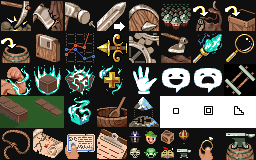
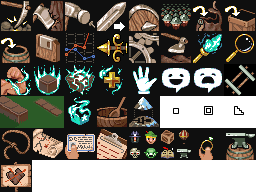
bug fixes

diff --git a/DwarfCorp/Components/AI/Sensors/EnemySensor.cs b/DwarfCorp/Components/AI/Sensors/EnemySensor.cs
@@ -49,66 +49,74 @@ namespace DwarfCorp
 
         public void Sense()
         {
-            if (Name == "turret-sensor")
+            try
             {
-                var x = 5;
-            }
 
-            if (!Active) return;
-
-            if (Creature != null)
-                Allies = Creature.Faction;
-
-            // Don't sense enemies if we're inside the ground??
-            var currentVoxel = new VoxelHandle(World.ChunkManager, GlobalVoxelCoordinate.FromVector3(Position));
-            if (!(currentVoxel.IsValid && currentVoxel.IsEmpty))
-                return;
-
-            var sensed = new List<CreatureAI>();
-
-            var myRoot = GetRoot();
-
-            foreach (var body in Manager.World.EnumerateIntersectingRootObjects(BoundingBox, b => !Object.ReferenceEquals(b, myRoot)))
-            {
-                if (body.GetComponent<Flammable>().HasValue(out var flames) && flames.IsOnFire)
+                if (Name == "turret-sensor")
                 {
-                    if (GetRoot().GetComponent<CreatureAI>().HasValue(out var myAI))
+                    var x = 5;
+                }
+
+                if (!Active) return;
+
+                if (Creature != null)
+                    Allies = Creature.Faction;
+
+                // Don't sense enemies if we're inside the ground??
+                var currentVoxel = new VoxelHandle(World.ChunkManager, GlobalVoxelCoordinate.FromVector3(Position));
+                if (!(currentVoxel.IsValid && currentVoxel.IsEmpty))
+                    return;
+
+                var sensed = new List<CreatureAI>();
+
+                var myRoot = GetRoot();
+
+                foreach (var body in Manager.World.EnumerateIntersectingRootObjects(BoundingBox, b => !Object.ReferenceEquals(b, myRoot)))
+                {
+                    if (body.GetComponent<Flammable>().HasValue(out var flames) && flames.IsOnFire)
                     {
-                        var task = new FleeEntityTask(body, 5)
+                        if (GetRoot().GetComponent<CreatureAI>().HasValue(out var myAI))
                         {
-                            Priority = TaskPriority.Urgent,
-                            AutoRetry = false,
-                            ReassignOnDeath = false
-                        };
+                            var task = new FleeEntityTask(body, 5)
+                            {
+                                Priority = TaskPriority.Urgent,
+                                AutoRetry = false,
+                                ReassignOnDeath = false
+                            };
 
-                        if (!myAI.HasTaskWithName(task))
-                            myAI.AssignTask(task);
+                            if (!myAI.HasTaskWithName(task))
+                                myAI.AssignTask(task);
 
-                        continue;
+                            continue;
+                        }
+                    }
+
+                    if (body.GetComponent<CreatureAI>().HasValue(out var minion))
+                    {
+                        if (!minion.Active)
+                            continue;
+
+                        if (!DetectCloaked && minion.Creature.IsCloaked)
+                            continue;
+
+                        else if (DetectCloaked && minion.Creature.IsCloaked)
+                            minion.Creature.IsCloaked = false;
+
+                        if (World.Overworld.GetPolitics(Allies.ParentFaction, minion.Faction.ParentFaction).GetCurrentRelationship() != Relationship.Hateful)
+                            continue;
+
+                        if (!VoxelHelpers.DoesRayHitSolidVoxel(Manager.World.ChunkManager, Position, minion.Position))
+                            sensed.Add(minion);
                     }
                 }
 
-                if (body.GetComponent<CreatureAI>().HasValue(out var minion))
-                {
-                    if (!minion.Active)
-                        continue;
-
-                    if (!DetectCloaked && minion.Creature.IsCloaked)
-                        continue;
-
-                    else if (DetectCloaked && minion.Creature.IsCloaked)
-                        minion.Creature.IsCloaked = false;
-
-                    if (World.Overworld.GetPolitics(Allies.ParentFaction, minion.Faction.ParentFaction).GetCurrentRelationship() != Relationship.Hateful)
-                        continue;
-
-                    if (!VoxelHelpers.DoesRayHitSolidVoxel(Manager.World.ChunkManager, Position, minion.Position))
-                        sensed.Add(minion);
-                }
+                if (sensed != null && sensed.Count > 0 && OnEnemySensed != null)
+                    OnEnemySensed.Invoke(sensed);
             }
-
-            if (sensed != null && sensed.Count > 0 && OnEnemySensed != null)
-                OnEnemySensed.Invoke(sensed);
+            catch (Exception e)
+            {
+                // Fuck it
+            }
         }
 
         override public void Update(DwarfTime gameTime, ChunkManager chunks, Camera camera)

diff --git a/DwarfCorp/Sound/SoundManager.cs b/DwarfCorp/Sound/SoundManager.cs
@@ -555,32 +555,39 @@ namespace DwarfCorp
                 Listener.Forward.Normalize();
             }
 
-            foreach(Sound3D instance in ActiveSounds)
+            try
             {
-                if(instance.EffectInstance.IsDisposed || (instance.HasStarted && instance.EffectInstance.State == SoundState.Stopped || instance.EffectInstance.State == SoundState.Paused))
+                foreach (Sound3D instance in ActiveSounds)
                 {
-                    if(!instance.EffectInstance.IsDisposed)
-                        instance.EffectInstance.Dispose();
-                    toRemove.Add(instance);
-                    SoundCounts[instance.Name]--;
-                }
-                else if(!instance.HasStarted)
-                {
-                    if (float.IsNaN(instance.Position.X) || 
-                        float.IsNaN(instance.Position.Y) ||
-                        float.IsNaN(instance.Position.Z))
+                    if (instance.EffectInstance.IsDisposed || (instance.HasStarted && instance.EffectInstance.State == SoundState.Stopped || instance.EffectInstance.State == SoundState.Paused))
                     {
-                        instance.Position = Vector3.Zero;
+                        if (!instance.EffectInstance.IsDisposed)
+                            instance.EffectInstance.Dispose();
+                        toRemove.Add(instance);
+                        SoundCounts[instance.Name]--;
                     }
-                    instance.EffectInstance.Volume *= (GameSettings.Current.MasterVolume * GameSettings.Current.SoundEffectVolume * instance.VolumeMultiplier);
-                    Emitter.Position = instance.Position;
-                    instance.EffectInstance.Apply3D(Listener, Emitter);
-                    instance.EffectInstance.Play();
-                    //instance.EffectInstance.Apply3D(Listener, Emitter);
+                    else if (!instance.HasStarted)
+                    {
+                        if (float.IsNaN(instance.Position.X) ||
+                            float.IsNaN(instance.Position.Y) ||
+                            float.IsNaN(instance.Position.Z))
+                        {
+                            instance.Position = Vector3.Zero;
+                        }
+                        instance.EffectInstance.Volume *= (GameSettings.Current.MasterVolume * GameSettings.Current.SoundEffectVolume * instance.VolumeMultiplier);
+                        Emitter.Position = instance.Position;
+                        instance.EffectInstance.Apply3D(Listener, Emitter);
+                        instance.EffectInstance.Play();
+                        //instance.EffectInstance.Apply3D(Listener, Emitter);
 
-                    //instance.EffectInstance.Volume = Math.Max(Math.Min(400.0f / (camera.Position - instance.Position).LengthSquared(), 0.999f), 0.001f);
-                    instance.HasStarted = true;
+                        //instance.EffectInstance.Volume = Math.Max(Math.Min(400.0f / (camera.Position - instance.Position).LengthSquared(), 0.999f), 0.001f);
+                        instance.HasStarted = true;
+                    }
                 }
+            } 
+            catch (Exception e)
+            {
+                // Collection getting modified somehow? ??? Dunno. Very odd and rare crash.
             }
 
             ActiveSounds2D.RemoveAll(sound => sound.IsDisposed || sound.State == SoundState.Stopped);

diff --git a/DwarfCorp/Components/AI/CreatureAI.cs b/DwarfCorp/Components/AI/CreatureAI.cs
@@ -96,22 +96,22 @@ namespace DwarfCorp
         [JsonIgnore] // Todo: The problem with these wrappers is that everything works with CreatureAI instead of Creature.
         public Physics Physics
         {
-            get { return Creature.Physics; }
+            get { return Creature == null ? null : Creature.Physics; }
         }
 
         /// <summary> Wrapper around Creature.Faction </summary>
         [JsonIgnore]
         public Faction Faction
         {
-            get { return Creature.Faction; }
-            set { Creature.Faction = value; }
+            get { return Creature == null ? null : Creature.Faction; }
+            set { if (Creature != null) Creature.Faction = value; }
         }
 
         /// <summary> Wrapper around Creature.Stats </summary>
         [JsonIgnore]
         public CreatureStats Stats
         {
-            get { return Creature.Stats; }
+            get { return Creature == null ? null : Creature.Stats; }
         }
 
         /// <summary> Wrapper around Creature.Physics.GlobalTransform.Translation </summary>
@@ -589,7 +589,13 @@ namespace DwarfCorp
 
         public override string GetDescription()
         {
-            string desc = Stats.FullName + ", level " + Stats.GetCurrentLevel() +
+            if (Stats == null || Creature == null)
+                return "This bloke got a problem.";
+
+            if (Stats.Happiness == null || Stats.Health == null || Stats.Hunger == null || Stats.Energy == null)
+                return "This bloke got no stats.";
+
+            string desc = (Stats.FullName == null ? "Who" : Stats.FullName) + ", level " + Stats.GetCurrentLevel() +
                           ", " + Stats.Gender.ToString() + "\n    " +
                           "Happiness: " + GetHappinessDescription(Stats.Happiness) + ". Health: " + Stats.Health.Percentage +
                           ". Hunger: " + (100 - Stats.Hunger.Percentage) + ". Energy: " + Stats.Energy.Percentage +
@@ -763,7 +769,7 @@ namespace DwarfCorp
         {
             if (CurrentTask.HasValue(out var currentTask))
             {
-                if (currentTask.ReassignOnDeath && Faction == World.PlayerFaction)
+                if (World != null && World.TaskManager != null && currentTask.ReassignOnDeath && Faction == World.PlayerFaction)
                     World.TaskManager.AddTask(currentTask);
                 ChangeTask(null);
             }

diff --git a/DwarfCorp/World/Economy/Factions/TradeEnvoy.cs b/DwarfCorp/World/Economy/Factions/TradeEnvoy.cs
@@ -43,8 +43,14 @@ namespace DwarfCorp
 
         public void MakeTradeWidget(WorldManager World)
         {
+            if (Creatures == null)
+                return;
+
             var liveCreatures = Creatures.Where(creature => creature != null && !creature.IsDead);
             if (!liveCreatures.Any())
+                return;
+
+            if (OwnerFaction == null || World == null || World.UserInterface == null)
                 return;
 
             var zones = World.EnumerateZones().OfType<BalloonPort>();
@@ -68,9 +74,12 @@ namespace DwarfCorp
             else
                 closestCreature = liveCreatures.First();
 
+            if (closestCreature == null || closestCreature.Physics == null)
+                return;
+
             TradeWidget = World.UserInterface.MakeWorldPopup(new Events.TimedIndicatorWidget()
             {
-                Text = string.Format("Click here to trade with the {0}!", OwnerFaction.Race.HasValue(out var race) ? race.Name : "???"),
+                Text = string.Format("Click here to trade with the {0}!", OwnerFaction.Race.HasValue(out var race) ? (race == null ? "???" : race.Name) : "???"),
                 OnClick = (gui, sender) =>
                 {
                     OpenDiplomacyConversation(World);

diff --git a/DwarfCorp/GameStates/Play/CommandBar/EnumerateCommandMenuItems.cs b/DwarfCorp/GameStates/Play/CommandBar/EnumerateCommandMenuItems.cs
@@ -35,7 +35,7 @@ namespace DwarfCorp.Play
                 {
                     AssetPath = "newgui/icons",
                     FrameSize = new Point(32, 32),
-                    Frame = new Point(5, 0)
+                    Frame = new Point(0, 5)
                 },
                 OnClick = (sender, args) => World.UserInterface.ChangeTool("PathingHint", null),
                 Tooltip = "Select dwarves"
@@ -355,7 +355,6 @@ namespace DwarfCorp.Play
                 Tooltip = "Catch Animals",
                 HoverWidget = new Widget()
                 {
-                    Border = "border-fancy",
                     Text = "Catch Animals.\n Click and drag to catch animals.\nRequires animal pen.",
                     Rect = new Rectangle(0, 0, 256, 128),
                     TextColor = Color.Black.ToVector4()
@@ -380,7 +379,7 @@ namespace DwarfCorp.Play
                 },
                 HoverWidget = new CancelToolOptions
                 {
-                    Rect = new Rectangle(0, 0, 200, 100)
+                    Rect = new Rectangle(0, 0, 256, 128)
                 }
             };
         }

diff --git a/DwarfCorp/Program.cs b/DwarfCorp/Program.cs
@@ -11,8 +11,8 @@ namespace DwarfCorp
 {
     internal static class Program
     {
-        public static string Version = "20.12.10_XNA";
-        public static string[] CompatibleVersions = { "20.12.10_XNA", "20.12.10_FNA" };
+        public static string Version = "21.04.03_XNA";
+        public static string[] CompatibleVersions = { "21.01.26_XNA", "21.01.26_FNA", "20.12.10_XNA", "20.12.10_FNA", "21.04.03_XNA", "21.04.03_FNA" };
         public static string Commit = "UNKNOWN";
         public static char DirChar = Path.DirectorySeparatorChar;
         private static RavenClient ravenClient;
@@ -98,7 +98,8 @@ namespace DwarfCorp
             if (ravenClient != null)
                 ravenClient.Capture(new SentryEvent(exception));
 #else
-            throw exception;
+            var x = 5;
+            //throw exception;
 #endif
         }
 

diff --git a/DwarfCorp/FNAProgram.cs b/DwarfCorp/FNAProgram.cs
@@ -20,8 +20,8 @@ namespace DwarfCorp
 #if WINDOWS || XBOX
     internal static class Program
     {
-        public static string Version = "20.12.10_FNA";
-        public static string[] CompatibleVersions = { "20.12.10_XNA", "20.12.10_FNA" };
+        public static string Version = "21.04.03_FNA";
+        public static string[] CompatibleVersions = { "21.01.26_XNA", "21.01.26_FNA", "20.12.10_XNA", "20.12.10_FNA", "21.04.03_FNA", "21.04.03_XNA" };
         public static string Commit = "UNKNOWN";
         public static char DirChar = Path.DirectorySeparatorChar;
         

diff --git a/DwarfCorp/Gui/Widgets/CancelToolOptions.cs b/DwarfCorp/Gui/Widgets/CancelToolOptions.cs
@@ -12,9 +12,14 @@ namespace DwarfCorp.Gui.Widgets
         public CheckBox Voxels;
         public CheckBox Entities;
 
+        public override Point GetBestSize()
+        {
+            return new Point(200, 50);
+        }
+
+
         public override void Construct()
         {
-            Border = "border-fancy";
             Font = "font8";
             TextColor = new Vector4(0, 0, 0, 1);
 

diff --git a/DwarfCorp/Player/Tools/CancelTasksTool.cs b/DwarfCorp/Player/Tools/CancelTasksTool.cs
@@ -23,6 +23,7 @@ namespace DwarfCorp
 
         public override void OnBegin(Object Arguments)
         {
+            Options = Arguments as Gui.Widgets.CancelToolOptions;
             World.Tutorial("cancel-tasks");
             World.UserInterface.VoxSelector.SelectionColor = Color.Red;
             World.UserInterface.VoxSelector.DrawBox = true;

diff --git a/DwarfCorp/Player/Crafting/GetResourcesAct.cs b/DwarfCorp/Player/Crafting/GetResourcesAct.cs
@@ -54,6 +54,9 @@ namespace DwarfCorp
         public override void Initialize()
         {
             var hasAllResources = true;
+            
+            if (Creature == null || Creature.Inventory == null) return;
+            if (Resources == null) return;
 
             if (Resources != null)
             {
